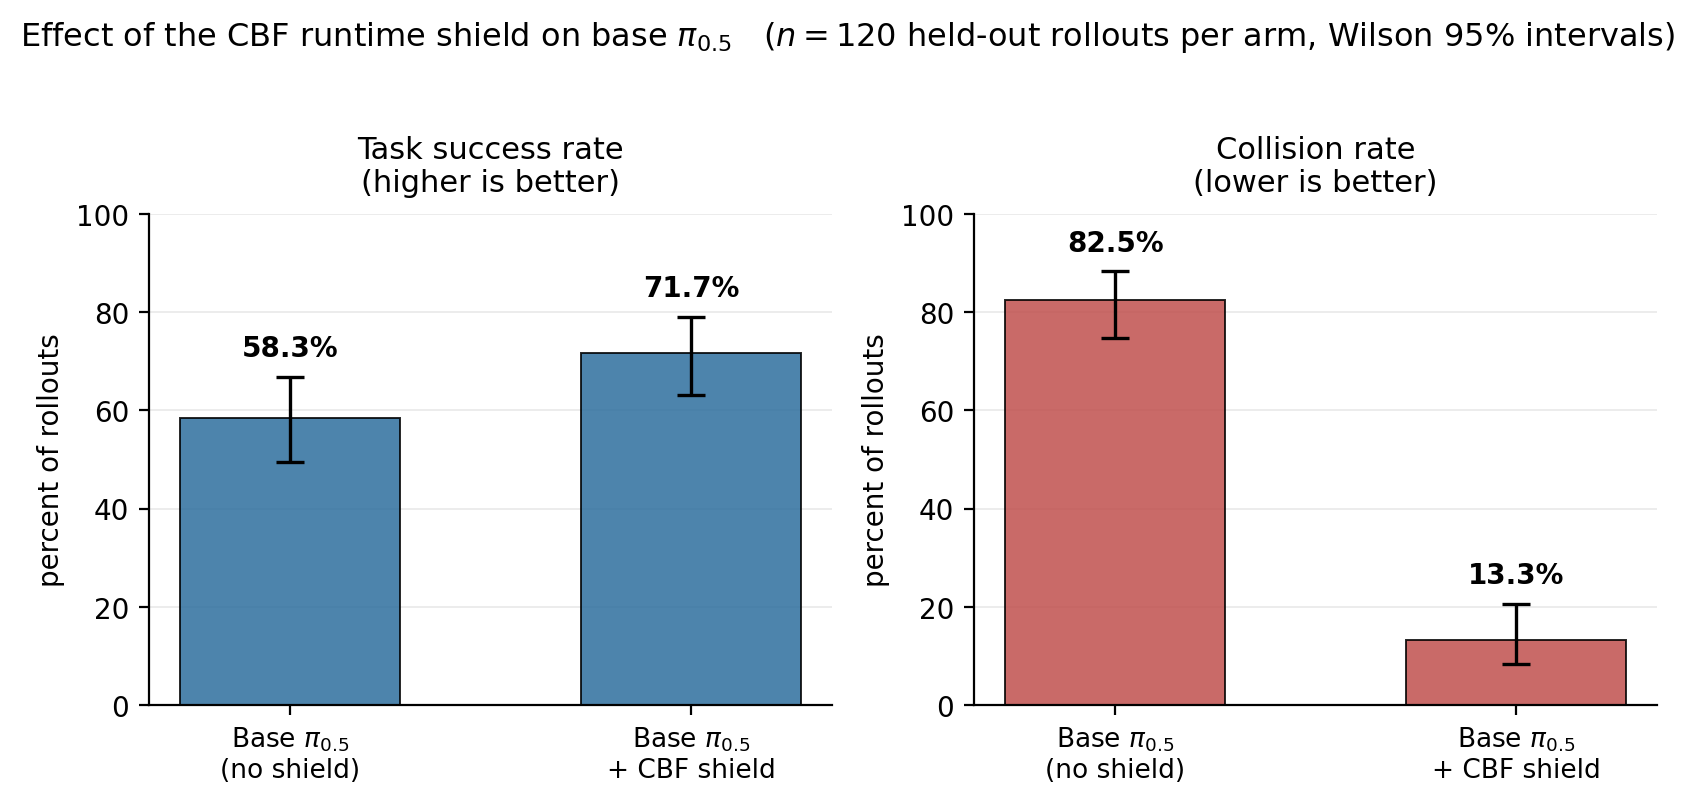
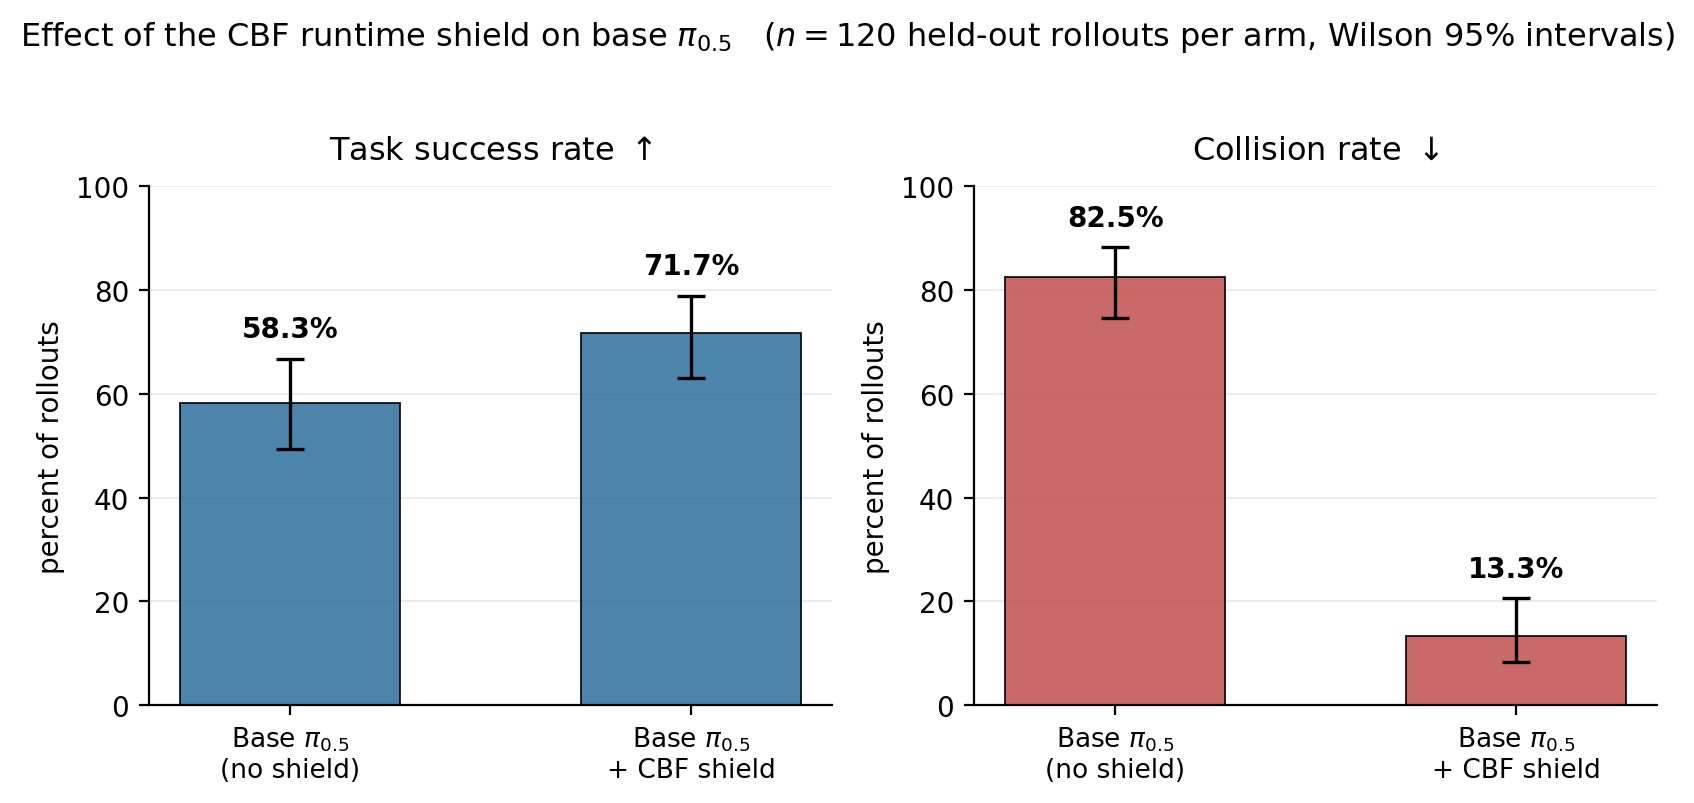
Figure 4.1: arrow glyphs instead of (higher/lower is better)
Titles now read "Task success rate up-arrow" and "Collision rate down-arrow"
using mathtext, which is the standard convention and drops the parenthetical
second title line, so the panel titles are single-line and the plots sit higher.

diff --git a/experiments/make_fig_shield_efficacy.py b/experiments/make_fig_shield_efficacy.py
@@ -1,7 +1,7 @@
 """make_fig_shield_efficacy.py — Figure 4.1: does the shield make pi0.5 safe?
 
 Two panels, base vs base+shield, on the two metrics that answer the section's question: task
-success (higher is better) and collision rate (lower is better). Wilson 95% intervals as error bars.
+success (arrow up = better) and collision rate (arrow down = better). Wilson 95% intervals as bars.
 
 WHY COUNTS, NOT PERCENTAGES. The source table reports rounded percentages (58.3%, 82.5%, ...). A
 Wilson interval computed from a rounded rate is not the interval that was reported, and the
@@ -68,14 +68,14 @@ def main() -> int:
 
     labels = list(ARMS.keys())
     panels = [
-        ("Task success rate", "success", "#2E6F9E", "higher is better"),
-        ("Collision rate", "collision", "#C0504D", "lower is better"),
+        ("Task success rate", "success", "#2E6F9E", r"$\uparrow$"),
+        ("Collision rate", "collision", "#C0504D", r"$\downarrow$"),
     ]
 
     fig, axes = plt.subplots(1, 2, figsize=(8.4, 3.9))
     x = np.arange(len(labels))
 
-    for ax, (title, metric, colour, direction) in zip(axes, panels):
+    for ax, (title, metric, colour, arrow) in zip(axes, panels):
         pts, los, his = [], [], []
         for arm in labels:
             p, lo, hi = wilson(ARMS[arm][metric], N)
@@ -90,7 +90,7 @@ def main() -> int:
             ax.text(xi, p + his[xi] + 3.0, f"{p:.1f}%", ha="center", va="bottom",
                     fontsize=10, fontweight="bold")
 
-        ax.set_title(f"{title}\n({direction})", fontsize=11, pad=8)
+        ax.set_title(f"{title} {arrow}", fontsize=11.5, pad=10)
         ax.set_xticks(x); ax.set_xticklabels(labels, fontsize=9.5)
         ax.set_ylim(0, 100); ax.set_ylabel("percent of rollouts", fontsize=10)
         ax.grid(axis="y", alpha=0.28, zorder=0, linewidth=0.6)
